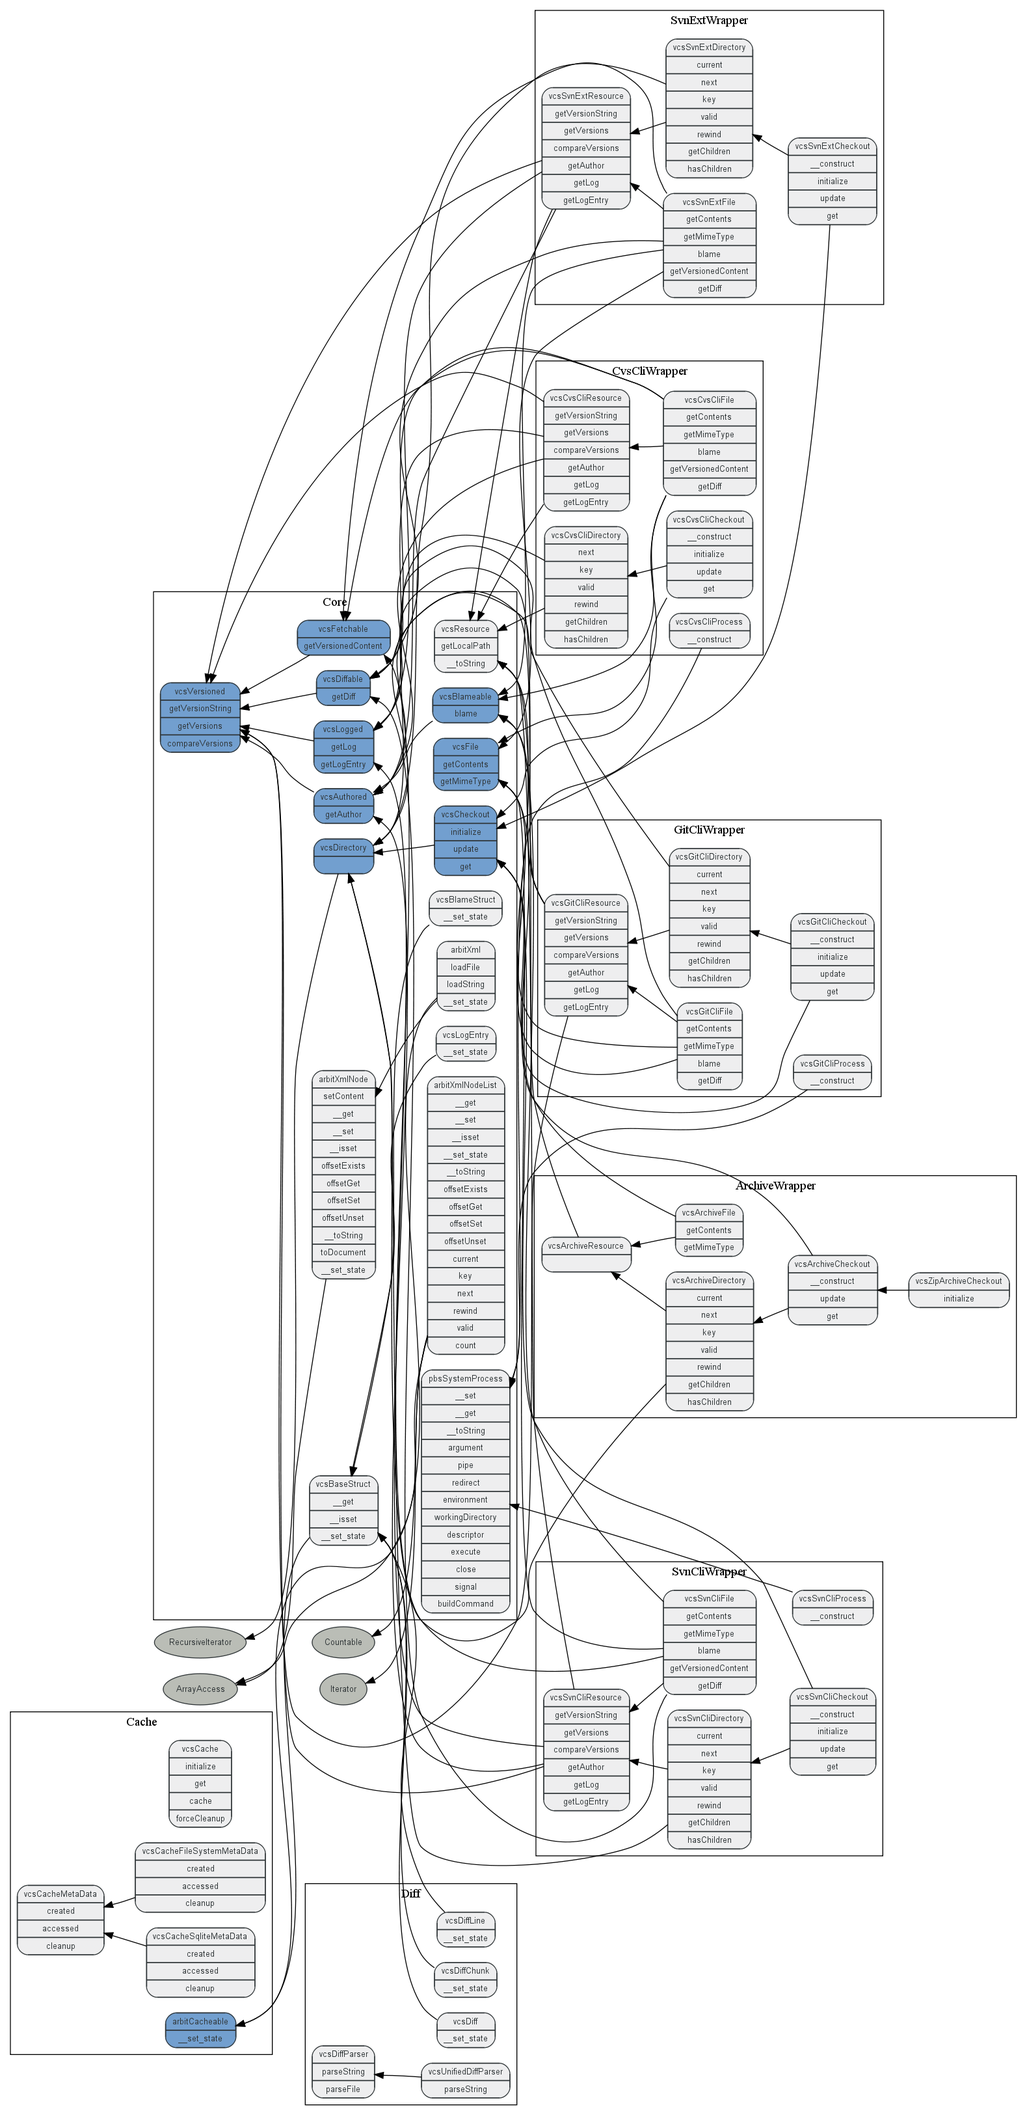
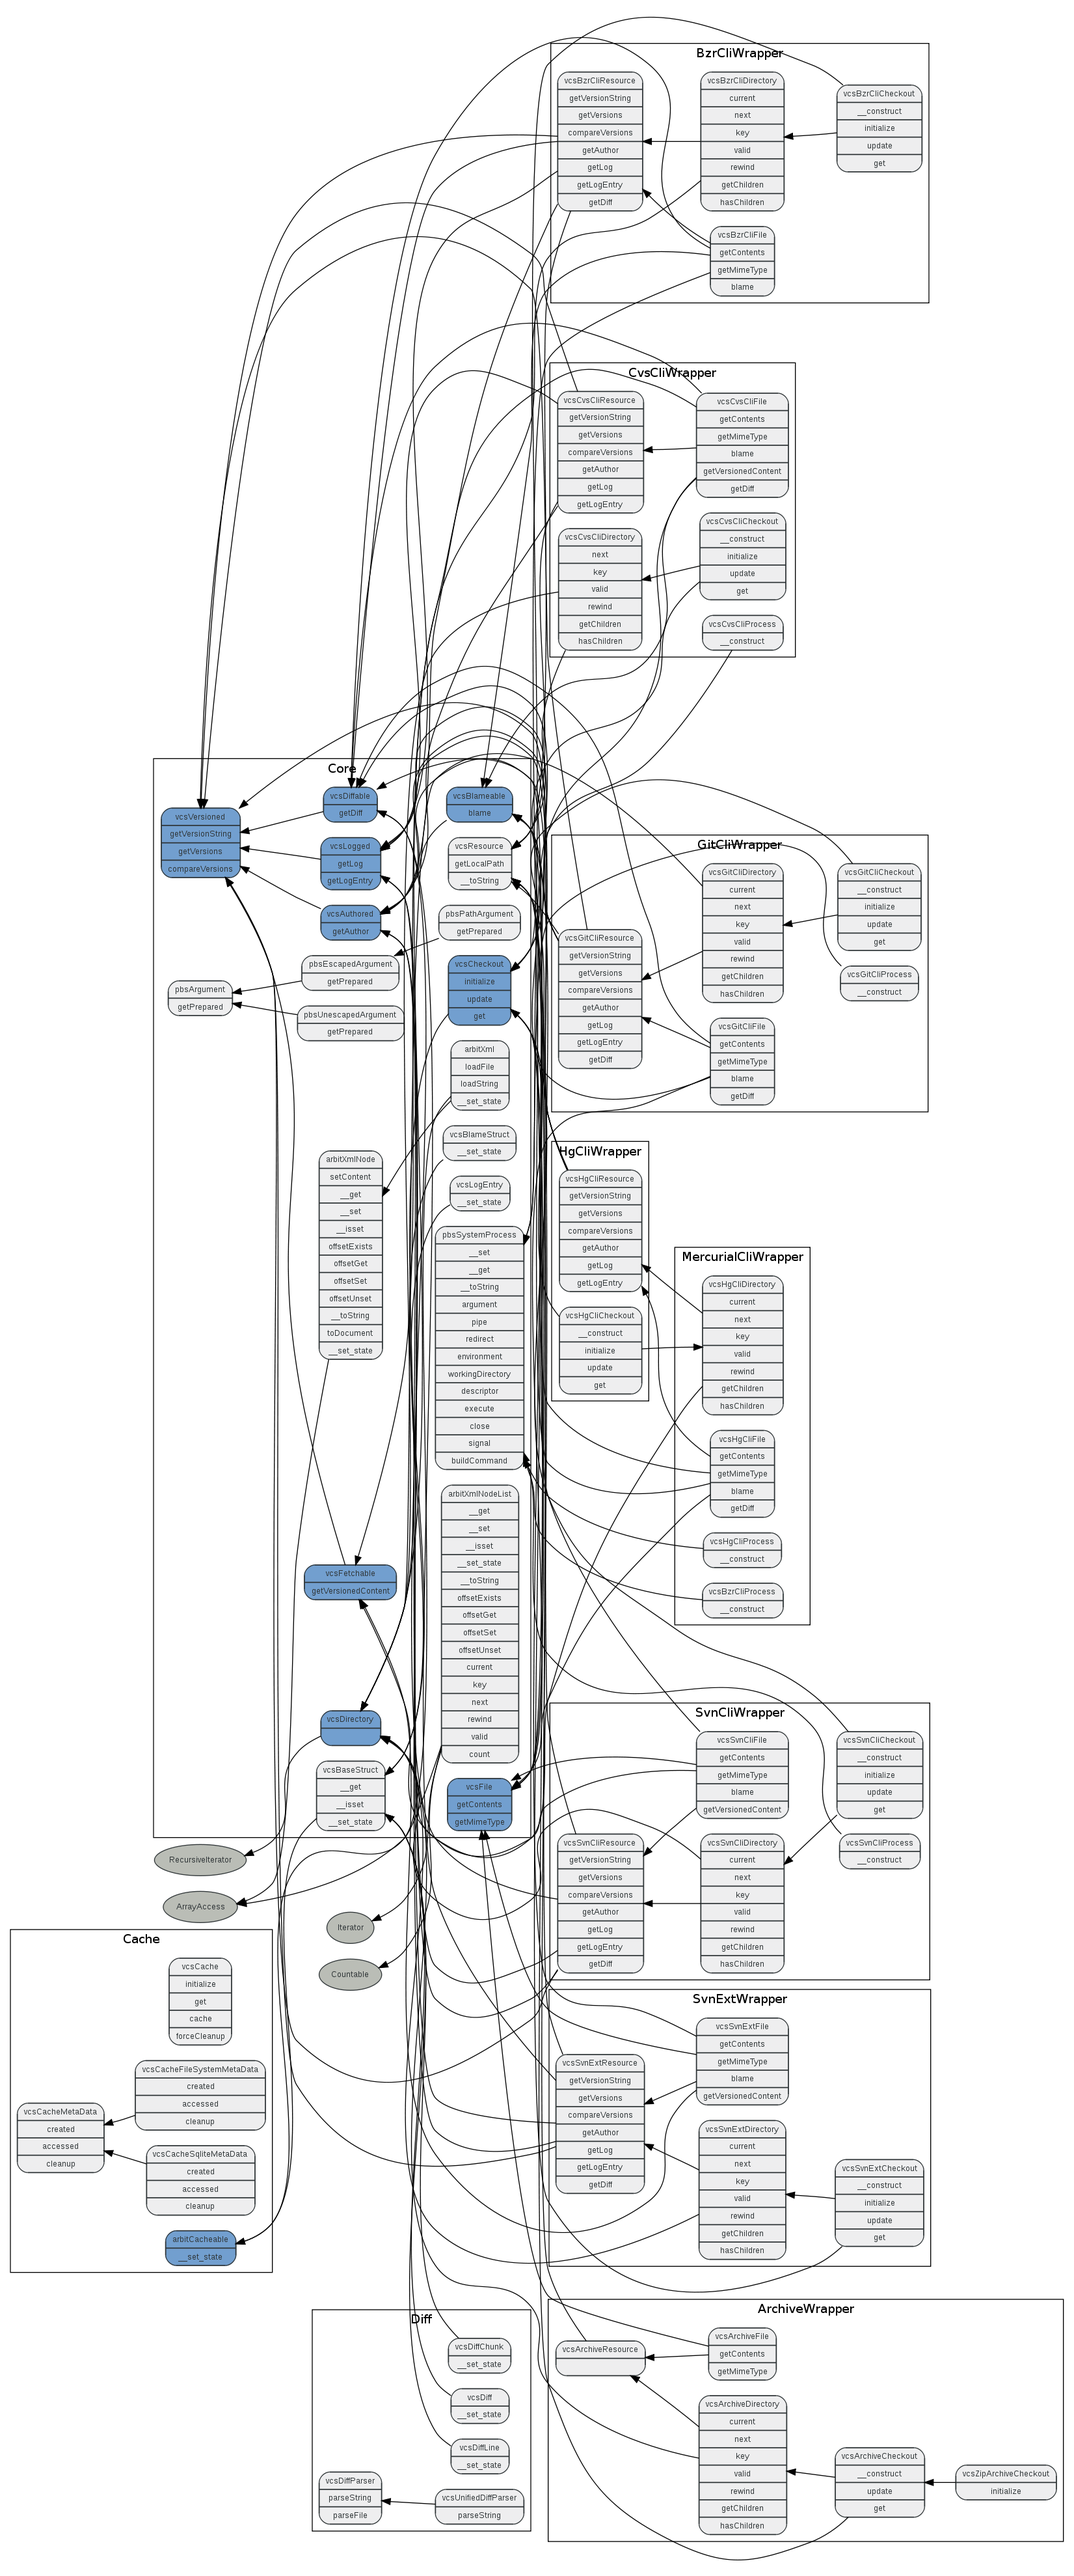
- Refs #3: Made SVN-CLI wrapper windows compatible.

diff --git a/src/classes/autoload.php b/src/classes/autoload.php
@@ -55,6 +55,10 @@ return array(
     'pbsSystemProcessNonZeroExitCodeException'         => 'external/exceptions/system_process/nonZeroExitCode.php',
     'pbsSystemProcessNotRunningException'              => 'external/exceptions/system_process/notRunning.php',
     'pbsSystemProcessRecursivePipeException'           => 'external/exceptions/system_process/recursivePipe.php',
+    'pbsArgument'                                      => 'external/system_process/argument.php',
+    'pbsEscapedArgument'                               => 'external/system_process/argument/escaped.php',
+    'pbsPathArgument'                                  => 'external/system_process/argument/path.php',
+    'pbsUnescapedArgument'                             => 'external/system_process/argument/unescaped.php',
     'arbitXmlNode'                                     => 'external/xml/node.php',
     'arbitXml'                                         => 'external/xml/document.php',
     'arbitException'                                   => 'external/xml/exceptions.php',
@@ -73,33 +77,33 @@ return array(
     'vcsZipArchiveCheckout'                            => 'wrapper/archive/checkout/zip.php',
     'vcsFile'                                          => 'interfaces/file.php',
     'vcsArchiveFile'                                   => 'wrapper/archive/file.php',
-    'vcsCvsCliDirectory'                               => 'wrapper/cvs-cli/directory.php',
-    'vcsCvsCliCheckout'                                => 'wrapper/cvs-cli/checkout.php',
     'vcsVersioned'                                     => 'interfaces/versioned.php',
     'vcsAuthored'                                      => 'interfaces/authored.php',
     'vcsLogged'                                        => 'interfaces/logged.php',
-    'vcsCvsCliResource'                                => 'wrapper/cvs-cli/resource.php',
-    'vcsBlameable'                                     => 'interfaces/blameable.php',
-    'vcsFetchable'                                     => 'interfaces/fetchable.php',
     'vcsDiffable'                                      => 'interfaces/diffable.php',
-    'vcsCvsCliFile'                                    => 'wrapper/cvs-cli/file.php',
+    'vcsBzrCliResource'                                => 'wrapper/bzr-cli/resource.php',
+    'vcsBzrCliDirectory'                               => 'wrapper/bzr-cli/directory.php',
+    'vcsBzrCliCheckout'                                => 'wrapper/bzr-cli/checkout.php',
+    'vcsBlameable'                                     => 'interfaces/blameable.php',
+    'vcsBzrCliFile'                                    => 'wrapper/bzr-cli/file.php',
     'pbsSystemProcess'                                 => 'external/system_process/systemProcess.php',
+    'vcsBzrCliProcess'                                 => 'wrapper/bzr-cli/process.php',
+    'vcsCvsCliDirectory'                               => 'wrapper/cvs-cli/directory.php',
+    'vcsCvsCliCheckout'                                => 'wrapper/cvs-cli/checkout.php',
+    'vcsCvsCliResource'                                => 'wrapper/cvs-cli/resource.php',
+    'vcsFetchable'                                     => 'interfaces/fetchable.php',
+    'vcsCvsCliFile'                                    => 'wrapper/cvs-cli/file.php',
     'vcsCvsCliProcess'                                 => 'wrapper/cvs-cli/process.php',
     'vcsGitCliResource'                                => 'wrapper/git-cli/resource.php',
     'vcsGitCliDirectory'                               => 'wrapper/git-cli/directory.php',
     'vcsGitCliCheckout'                                => 'wrapper/git-cli/checkout.php',
     'vcsGitCliFile'                                    => 'wrapper/git-cli/file.php',
     'vcsGitCliProcess'                                 => 'wrapper/git-cli/process.php',
-    'vcsHgCliResource'                                => 'wrapper/hg-cli/resource.php',
-    'vcsHgCliDirectory'                               => 'wrapper/hg-cli/directory.php',
-    'vcsHgCliCheckout'                                => 'wrapper/hg-cli/checkout.php',
-    'vcsHgCliFile'                                    => 'wrapper/hg-cli/file.php',
-    'vcsHgCliProcess'                                 => 'wrapper/hg-cli/process.php',
-    'vcsBzrCliResource'                                => 'wrapper/bzr-cli/resource.php',
-    'vcsBzrCliDirectory'                               => 'wrapper/bzr-cli/directory.php',
-    'vcsBzrCliCheckout'                                => 'wrapper/bzr-cli/checkout.php',
-    'vcsBzrCliFile'                                    => 'wrapper/bzr-cli/file.php',
-    'vcsBzrCliProcess'                                 => 'wrapper/bzr-cli/process.php',
+    'vcsHgCliResource'                                 => 'wrapper/hg-cli/resource.php',
+    'vcsHgCliDirectory'                                => 'wrapper/hg-cli/directory.php',
+    'vcsHgCliCheckout'                                 => 'wrapper/hg-cli/checkout.php',
+    'vcsHgCliFile'                                     => 'wrapper/hg-cli/file.php',
+    'vcsHgCliProcess'                                  => 'wrapper/hg-cli/process.php',
     'vcsSvnCliResource'                                => 'wrapper/svn-cli/resource.php',
     'vcsSvnCliDirectory'                               => 'wrapper/svn-cli/directory.php',
     'vcsSvnCliCheckout'                                => 'wrapper/svn-cli/checkout.php',

diff --git a/src/classes/wrapper/svn-cli/resource.php b/src/classes/wrapper/svn-cli/resource.php
@@ -59,7 +59,7 @@ abstract class vcsSvnCliResource extends vcsResource implements vcsVersioned, vc
             }
 
             // Execute info command
-            $return = $process->argument( 'info' )->argument( $this->root . $this->path )->execute();
+            $return = $process->argument( 'info' )->argument( new pbsPathArgument( $this->root . $this->path ) )->execute();
 
             $info = arbitXml::loadString( $process->stdoutOutput );
             vcsCache::cache( $this->path, $this->currentVersion = (string) $info->entry[0]->commit[0]['revision'], 'info', $info );
@@ -90,7 +90,7 @@ abstract class vcsSvnCliResource extends vcsResource implements vcsVersioned, vc
             }
 
             // Execute logr command
-            $return = $process->argument( 'log' )->argument( $this->root . $this->path )->execute();
+            $return = $process->argument( 'log' )->argument( new pbsPathArgument( $this->root . $this->path ) )->execute();
 
             // Transform XML into object array
             $xmlLog = arbitXml::loadString( $process->stdoutOutput );
@@ -135,7 +135,7 @@ abstract class vcsSvnCliResource extends vcsResource implements vcsVersioned, vc
             }
 
             // Execute mimeTyper command
-            $return = $process->argument( 'propget' )->argument( 'svn:' . $property )->argument( $this->root . $this->path )->execute();
+            $return = $process->argument( 'propget' )->argument( 'svn:' . $property )->argument( new pbsPathArgument( $this->root . $this->path ) )->execute();
 
             $value = trim( $process->stdoutOutput );
             vcsCache::cache( $this->path, $this->currentVersion, $property, $value );
@@ -239,7 +239,7 @@ abstract class vcsSvnCliResource extends vcsResource implements vcsVersioned, vc
             $process->argument( '-r' . $version . ':' . $current );
 
             // Execute command
-            $return = $process->argument( 'diff' )->argument( $this->root . $this->path )->execute();
+            $return = $process->argument( 'diff' )->argument( new pbsPathArgument( $this->root . $this->path ) )->execute();
             $parser = new vcsUnifiedDiffParser();
             $diff   = $parser->parseString( $process->stdoutOutput );
             vcsCache::cache( $this->path, $version, 'diff', $diff );

diff --git a/src/classes/wrapper/svn-cli/checkout.php b/src/classes/wrapper/svn-cli/checkout.php
@@ -67,7 +67,10 @@ class vcsSvnCliCheckout extends vcsSvnCliDirectory implements vcsCheckout
             }
         }
 
-        $return = $process->argument( 'checkout' )->argument( $url )->argument( $this->root )->execute();
+        // Fix incorrect windows checkout URLs
+        $url = preg_replace( '(^file://([A-Za-z]):)', 'file:///\\1:', $url );
+
+        $return = $process->argument( 'checkout' )->argument( str_replace( '\\', '/', $url ) )->argument( new pbsPathArgument( $this->root ) )->execute();
 
         // Cache basic revision information for checkout and update
         // currentVersion property.
@@ -98,7 +101,7 @@ class vcsSvnCliCheckout extends vcsSvnCliDirectory implements vcsCheckout
             $process->argument( '-r' . $version );
         }
 
-        $return = $process->argument( 'update' )->argument( $this->root )->execute();
+        $return = $process->argument( 'update' )->argument( new pbsPathArgument( $this->root ) )->execute();
 
         // Check if an update has happened
         $this->currentVersion = null;
@@ -122,7 +125,7 @@ class vcsSvnCliCheckout extends vcsSvnCliDirectory implements vcsCheckout
         $fullPath = realpath( $this->root . $path );
 
         if ( ( $fullPath === false ) ||
-             ( strpos( $fullPath, $this->root ) !== 0 ) )
+             ( strpos( str_replace( '\\', '/', $fullPath ), str_replace( '\\', '/', $this->root ) ) !== 0 ) )
         {
             throw new vcsFileNotFoundException( $path );
         }

diff --git a/src/classes/wrapper/svn-cli/file.php b/src/classes/wrapper/svn-cli/file.php
@@ -71,7 +71,7 @@ class vcsSvnCliFile extends vcsSvnCliResource implements vcsFile, vcsBlameable, 
             $process->argument( '--xml' );
 
             // Execute command
-            $return = $process->argument( 'blame' )->argument( $this->root . $this->path )->execute();
+            $return = $process->argument( 'blame' )->argument( new pbsPathArgument( $this->root . $this->path ) )->execute();
             $xml = arbitXml::loadString( $process->stdoutOutput );
 
             // Check if blame information si available. Is absent fro binary
@@ -116,7 +116,7 @@ class vcsSvnCliFile extends vcsSvnCliResource implements vcsFile, vcsBlameable, 
             $process->argument( '-r' . $version );
 
             // Execute command
-            $return = $process->argument( 'cat' )->argument( $this->root . $this->path )->execute();
+            $return = $process->argument( 'cat' )->argument( new pbsPathArgument( $this->root . $this->path ) )->execute();
             vcsCache::cache( $this->path, $version, 'content', $content = $process->stdoutOutput );
         }
 

diff --git a/src/classes/wrapper/svn-cli/process.php b/src/classes/wrapper/svn-cli/process.php
@@ -34,12 +34,12 @@ class vcsSvnCliProcess extends pbsSystemProcess
      * @param string $executable Executable to create system process for;
      * @return void
      */
-    public function __construct( $executable = 'env' )
+    public function __construct( $executable = 'svn' )
     {
         parent::__construct( $executable );
 
         $this->nonZeroExitCodeException = true;
-        $this->argument( 'svn' )->argument( '--non-interactive' );
+        $this->argument( '--non-interactive' );
     }
 }
 
